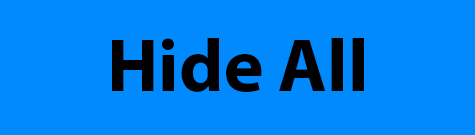
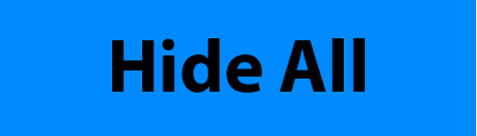
Buttons display properly now

Changed region(s): [[0.2358, 0.2667, 0.7663, 0.7111], [0.5011, 0.3852, 0.5305, 0.4148]]

diff --git a/computer/src/main.cpp b/computer/src/main.cpp
@@ -5,7 +5,7 @@
 #include "rendering.h"
 #include "simulated_world.h"
 #include "pose_source.h"
-#include "menu.h"
+#include "menu_button.h"
 
 using namespace visar;
 
@@ -50,38 +50,17 @@ int main(int argc, char* argv[]) {
     /* First param: file name */
     /* Second param: # of buttons */
     /* Third param: location of button, 0 in middle */
+
+    std::vector<std::string> buttons = {
+      "Call_Button.png",
+      "Options_Button.png",
+      "Hide_All_Button.png",
+    };
     
-    renderer.add_module(
-      boost::make_shared<menu::Menu>("Call_Button.png", 7, 1));
-    renderer.add_module(
-      boost::make_shared<menu::Menu>("Options_Button.png", 7, 2));
-    renderer.add_module(
-      boost::make_shared<menu::Menu>("Hide_All_Button.png", 7, 3));
-    renderer.add_module(
-      boost::make_shared<menu::Menu>("Call_Button.png", 7, 4));
-    renderer.add_module(
-      boost::make_shared<menu::Menu>("Options_Button.png", 7, 5));
-    renderer.add_module(
-      boost::make_shared<menu::Menu>("Call_Button.png", 7, 6));
-    renderer.add_module(
-      boost::make_shared<menu::Menu>("concrete_block.png", 7, 7));
-    
-    /*renderer.add_module(
-      boost::make_shared<menu::Menu>("Call_Button.png", 8, 1));
-    renderer.add_module(
-      boost::make_shared<menu::Menu>("Options_Button.png", 8, 2));
-    renderer.add_module(
-      boost::make_shared<menu::Menu>("Hide_All_Button.png", 8, 3));
-    renderer.add_module(
-      boost::make_shared<menu::Menu>("Hide_All_Button.png", 8, 4));
-    renderer.add_module(
-      boost::make_shared<menu::Menu>("Call_Button.png", 8, 5));
-    renderer.add_module(
-      boost::make_shared<menu::Menu>("Options_Button.png", 8, 6));
-    renderer.add_module(
-      boost::make_shared<menu::Menu>("Hide_All_Button.png", 8, 7));
-    renderer.add_module(
-      boost::make_shared<menu::Menu>("Hide_All_Button.png", 8, 8));*/
+    for(int unsigned i = 0; i < buttons.size(); i++) {
+      renderer.add_module(
+        boost::make_shared<menu_button::Menu_Button>(buttons[i], buttons.size(), i + 1));
+    }
   }
   
   io.run();

diff --git a/computer/src/menu_button.h b/computer/src/menu_button.h
@@ -12,8 +12,8 @@
 #include <iostream>
 
 namespace visar {
-  namespace menu {
-    class Menu : public rendering::IModule {
+  namespace menu_button {
+    class Menu_Button : public rendering::IModule {
       private:
         oglplus::Context gl;
         oglplus::VertexShader vs;
@@ -27,9 +27,9 @@ namespace visar {
         boost::shared_ptr<oglplus::images::Image> texturep;
         GLfloat tex_verts[8] = {
             0.0f, 0.0f, /* Bottom Left */
-            0.0f, 0.5f, /* Top Left */
-            0.5f, 0.0f, /* Bottom Right */
-            0.5f, 0.5f, /* Top Right */
+            0.0f, 1.0f, /* Top Left */
+            1.0f, 0.0f, /* Bottom Right */
+            1.0f, 1.0f, /* Top Right */
         };
 
       protected:
@@ -38,17 +38,17 @@ namespace visar {
       public:
         
 
-        Menu(void) { }
+        Menu_Button(void) { }
       
-        Menu(const char *t, int num_buttons, int button_loc) {
-          texturep = boost::make_shared<oglplus::images::PNGImage>(t);
+        Menu_Button(std::string t, int num_buttons, int button_loc) {
+          texturep = boost::make_shared<oglplus::images::PNGImage>(t.c_str());
           
           float left_x = -0.95f;
           float right_x = left_x + 0.3f;
           
           float pro_width = std::abs(right_x - left_x);
           float pro_height = pro_width * (1.0f / 3.5f);
-          
+
           float top_y = 0.0f;
           float bottom_y = 0.0f;
           
